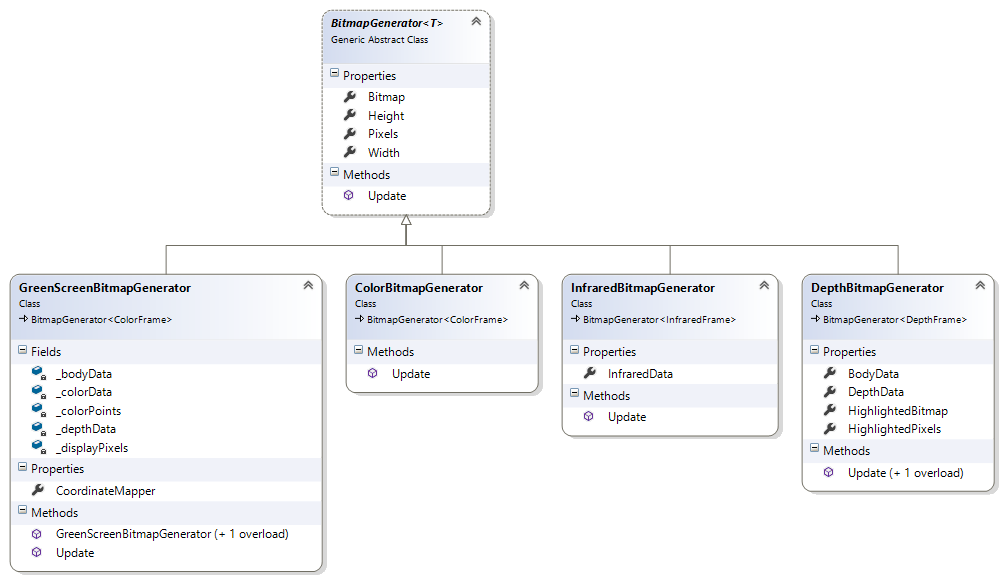
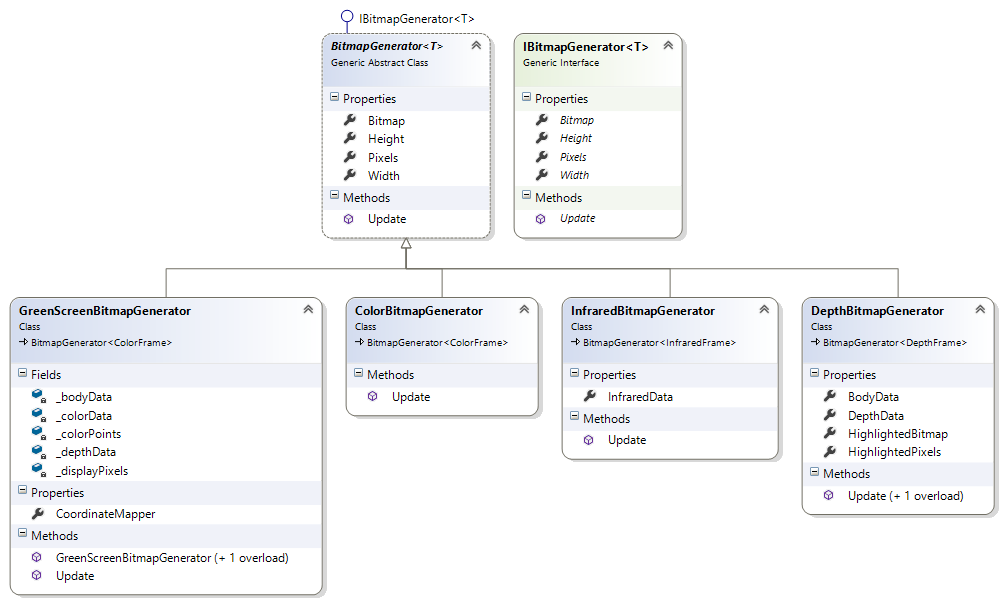
Kinect v2 WPF: - BitmapGenerator now implements IBitmapGenerator (also added that preexisting file to solution), updated diagrams and reexported diagram images

Changed region(s): [[0.0, 0.0, 1.0, 0.9931]]

diff --git a/Kinect v2/WPF/LightBuzz.Vitruvius/Bitmaps/BitmapGenerator.cs b/Kinect v2/WPF/LightBuzz.Vitruvius/Bitmaps/BitmapGenerator.cs
@@ -38,7 +38,7 @@ namespace LightBuzz.Vitruvius
     /// Describes a generic bitmap generator.
     /// </summary>
     /// <typeparam name="T">The type of frame (<see cref="ColorFrame"/>, <see cref="DepthFrame"/>, <see cref="InfraredFrame"/>, <see cref="BodyIndexFrame"/>, etc).</typeparam>
-    public abstract class BitmapGenerator<T>
+    public abstract class BitmapGenerator<T> : IBitmapGenerator<T>
     {
         /// <summary>
         /// Returns the RGB pixel values.

diff --git a/Kinect v2/WPF/LightBuzz.Vitruvius/Bitmaps/IBitmapGenerator.cs b/Kinect v2/WPF/LightBuzz.Vitruvius/Bitmaps/IBitmapGenerator.cs
@@ -29,11 +29,6 @@
 // POSSIBILITY OF SUCH DAMAGE.
 //
 
-using System;
-using System.Collections.Generic;
-using System.Linq;
-using System.Text;
-using System.Threading.Tasks;
 using System.Windows.Media.Imaging;
 
 namespace LightBuzz.Vitruvius
